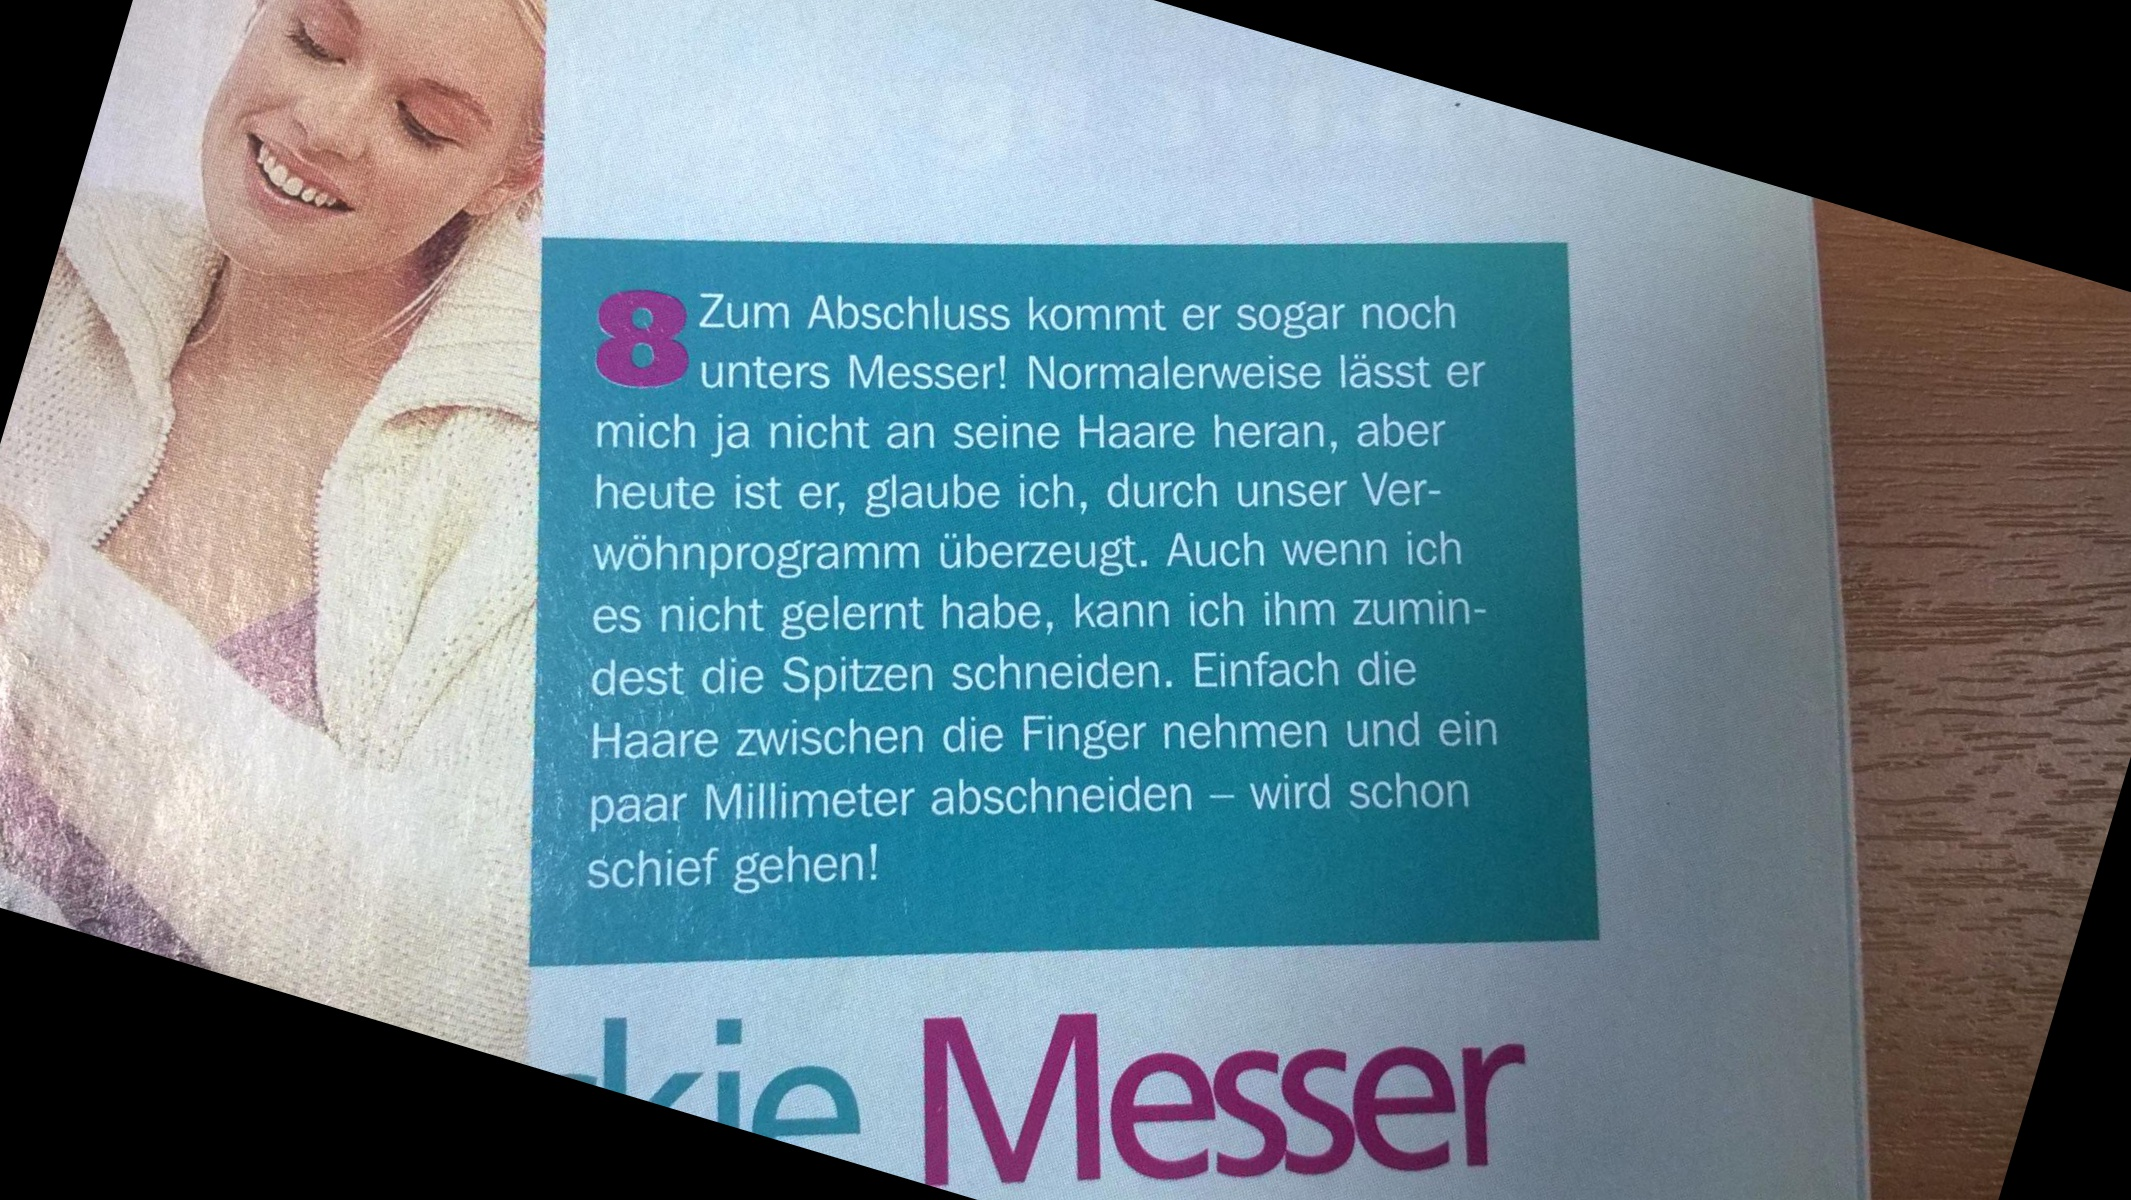
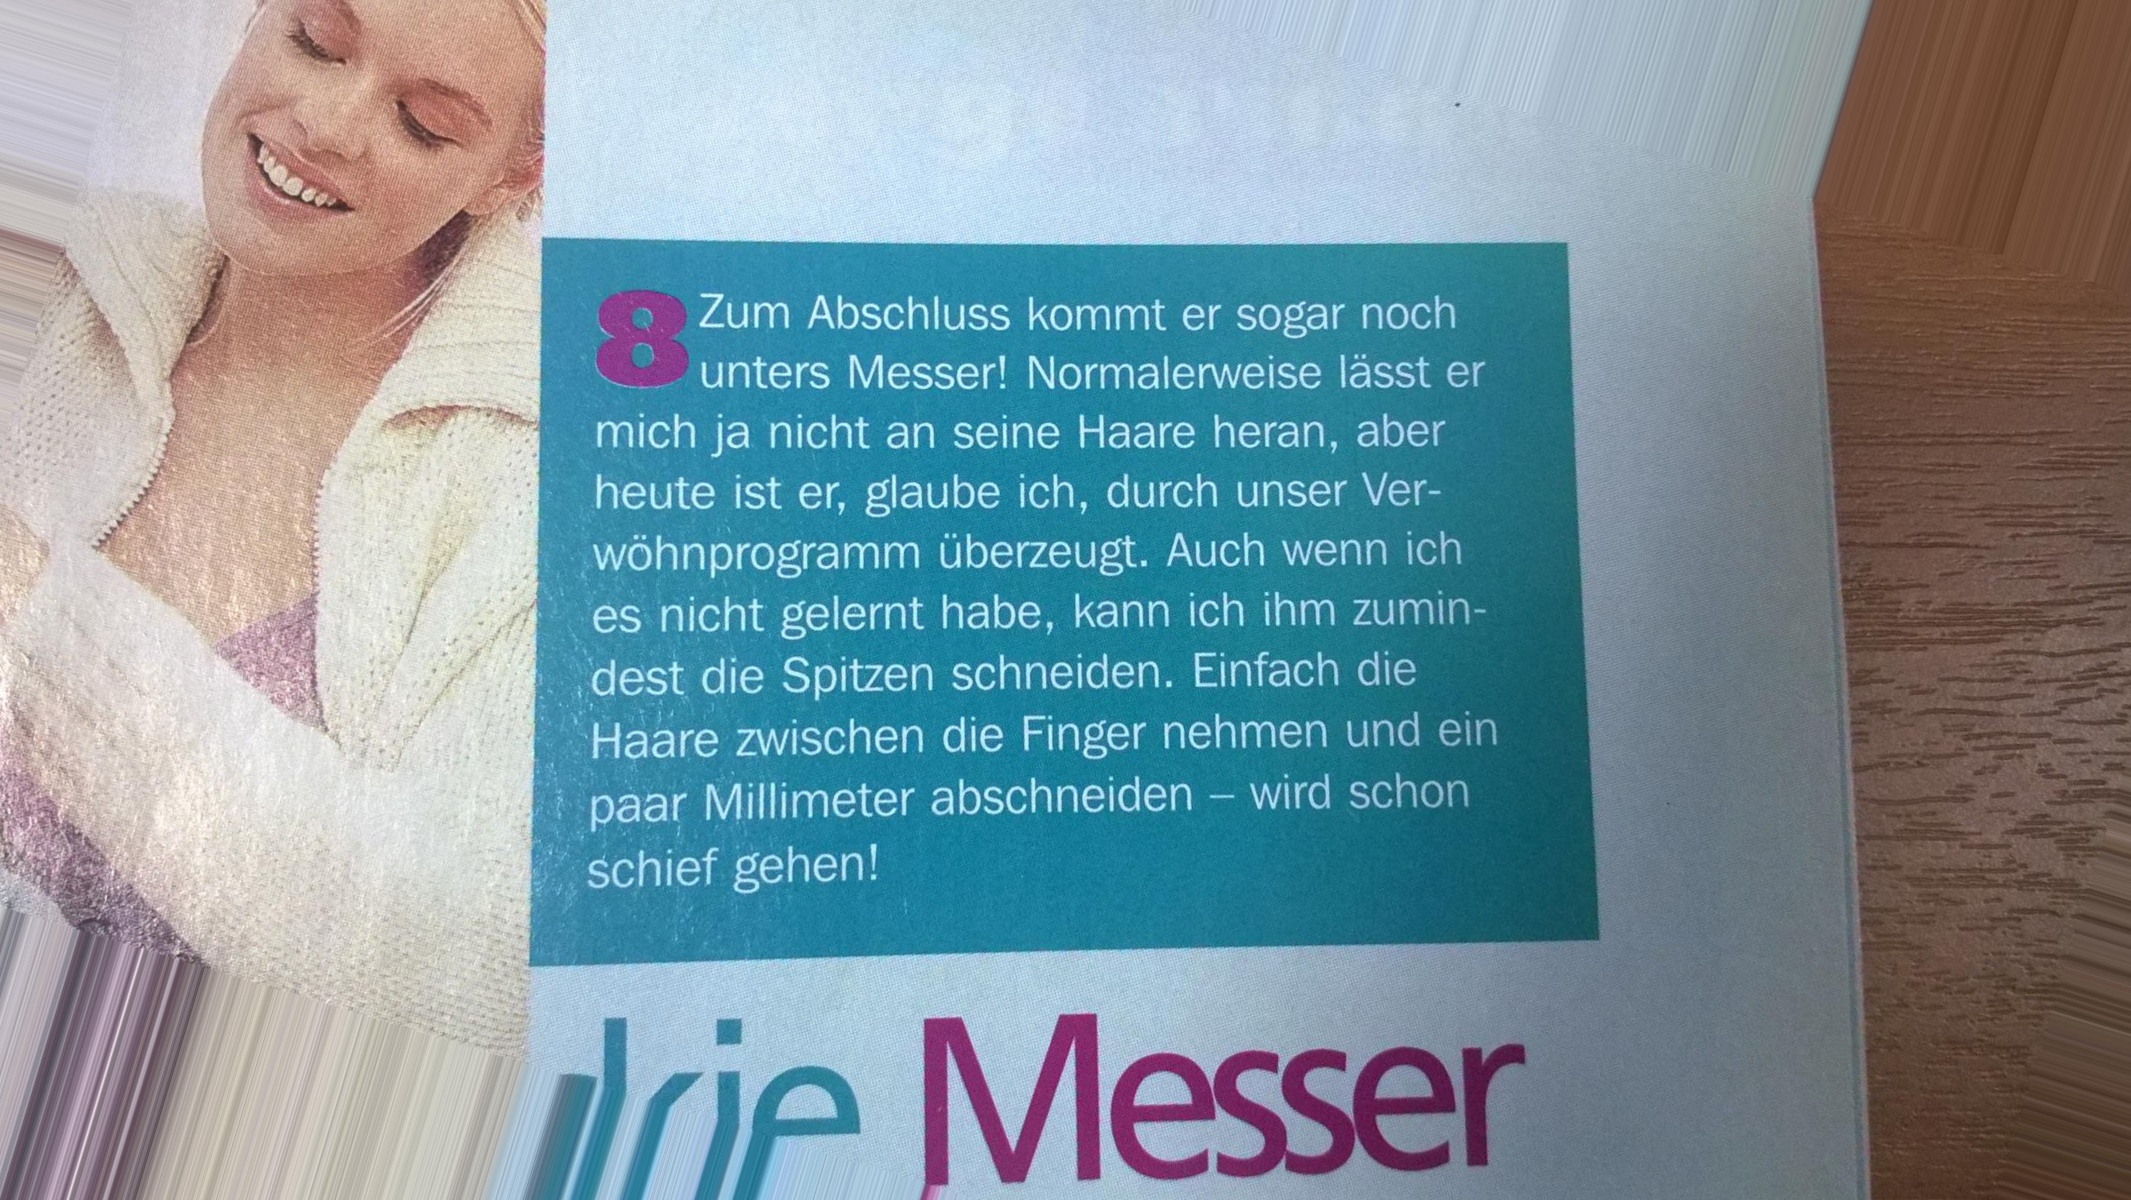
interpolation -> extrapolation

diff --git a/main.py b/main.py
@@ -1,5 +1,4 @@
 import os
-import threading
 
 import cv2
 import matplotlib.pyplot as plt
@@ -24,9 +23,11 @@ def transform_all_images():
         original_image = cv2.imread(os.path.join('images', f'{i}.jpg'), cv2.IMREAD_COLOR)
         center = (int(width / 2), int(height / 2))
         rotation_matrix = cv2.getRotationMatrix2D(center, -angle, 1)
-        transformed_image = cv2.warpAffine(original_image, rotation_matrix, (width, height), flags=cv2.INTER_LINEAR)
+        transformed_image = cv2.warpAffine(original_image, rotation_matrix, (width, height),
+                                           borderMode=cv2.INTER_LINEAR)
         cv2.imwrite(os.path.join('transformed_images', f'{i}_bilinear.jpg'), transformed_image)
-        transformed_image_2 = cv2.warpAffine(original_image, rotation_matrix, (width, height), flags=cv2.INTER_NEAREST)
+        transformed_image_2 = cv2.warpAffine(original_image, rotation_matrix, (width, height),
+                                             borderMode=cv2.INTER_NEAREST)
         cv2.imwrite(os.path.join('transformed_images', f'{i}_nearest.jpg'), transformed_image_2)
 
 
@@ -54,10 +55,10 @@ def measure_time_and_memory():
     plt.show()
 
     plt.figure(figsize=(12, 7))
-    plt.plot(sizes, time_algo)
+    plt.plot(sizes, time_algo * sizes ** 2 / 1e9)
     plt.title('Зависимость времени работы алгоритмов от длины/ширины')
     plt.xlabel('N')
-    plt.ylabel('Время работы (мсек/мегапиксель)')
+    plt.ylabel('Время работы')
     plt.grid()
     plt.savefig('time_from_N.png')
     plt.show()
